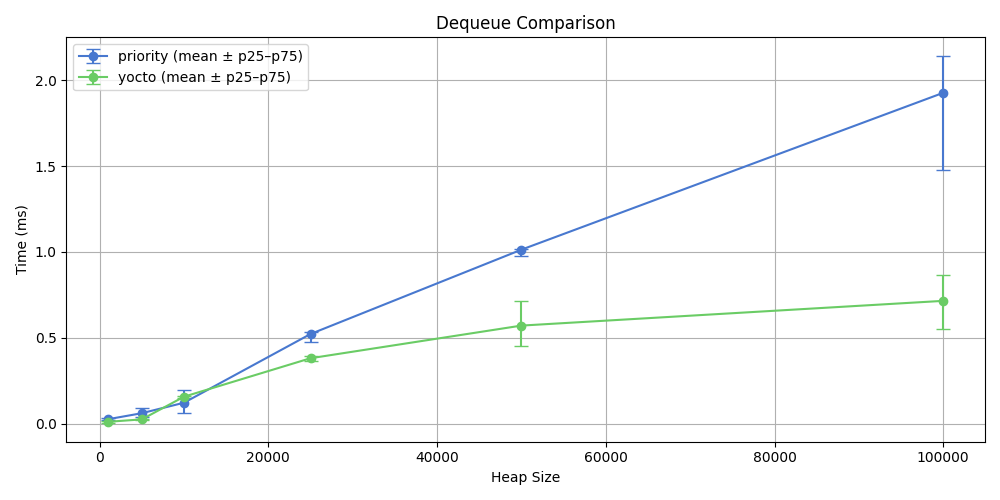
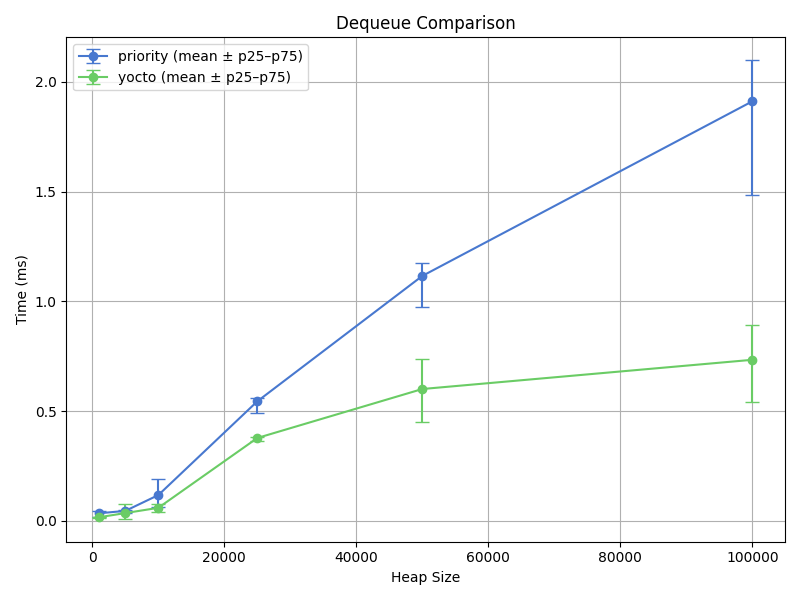
chore: update

diff --git a/benchmark/compare.ts b/benchmark/compare.ts
@@ -31,8 +31,11 @@ type AggregatedResult = {
 };
 
 function memoryInMB(): number {
-  if (global.gc) global.gc();
-  return Math.round((process.memoryUsage().heapUsed / 1024 / 1024) * 100) / 100;
+  for (let i = 0; i < 3; i++) {
+    if (global.gc) global.gc();
+  }
+  const mem = process.memoryUsage().heapUsed;
+  return Math.round((mem / 1024 / 1024) * 100) / 100;
 }
 
 function measureTime<T>(fn: () => T): { time: number; result: T } {

diff --git a/benchmark/plot_stats.py b/benchmark/plot_stats.py
@@ -8,7 +8,7 @@ df = pd.read_csv("stats.csv")
 operations = ["enqueue", "dequeue", "drain", "memory"]
 
 for op in operations:
-    fig, ax = plt.subplots(figsize=(10, 5))
+    fig, ax = plt.subplots(figsize=(8, 6))
     for queue_type in ["priority", "yocto"]:
         sub = df[(df["operation"] == op) & (df["queueType"] == queue_type)]
         if sub.empty:

diff --git a/README.md b/README.md
@@ -10,14 +10,43 @@ TypeScript による柔軟な優先度付きキュー実装。
 - ✅ **イテレータ・サイズ取得・全要素抽出 (`drain`) 対応**
 - ✅ **ジェネリクス対応（任意の型の要素を扱える）**
 
-## Benchmark
+## 📈 Benchmark Results
 
-@himenon/priority-queue (This library) vs [yocto-queue](https://github.com/sindresorhus/yocto-queue)
+The following charts compare this `PriorityQueue` implementation with [`yocto-queue`](https://github.com/sindresorhus/yocto-queue), using statistical aggregates over 10 trials. Error bars represent the 25th to 75th percentile range.
 
-|                                         Time                                          |                                          Memory                                           |
-| :-----------------------------------------------------------------------------------: | :---------------------------------------------------------------------------------------: |
-| ![Compare Time: yocto-queue vs @himenon/priority-queue](./benchmark/compare-time.png) | ![Compare Memory: yocto-queue vs @himenon/priority-queue](./benchmark/compare-memory.png) |
+---
 
+<div align="center">
+
+<table>
+  <tr>
+    <td><strong>Enqueue Time</strong></td>
+    <td><strong>Dequeue Time</strong></td>
+  </tr>
+  <tr>
+    <td><img src="benchmark/compare-enqueue.png" width="100%"></td>
+    <td><img src="benchmark/compare-dequeue.png" width="100%"></td>
+  </tr>
+  <tr>
+    <td><strong>Drain Time</strong></td>
+    <td><strong>Memory Usage</strong></td>
+  </tr>
+  <tr>
+    <td><img src="benchmark/compare-drain.png" width="100%"></td>
+    <td><img src="benchmark/compare-memory.png" width="100%"></td>
+  </tr>
+</table>
+
+</div>
+
+---
+
+### 📌 Notes
+
+- Benchmarks were executed **10 times per heap size**.
+- All plots include **mean values** with **p25–p75 error bars**.
+- Visualizations were generated via `matplotlib` in Docker.
+- Raw CSV data and scripts can be found under [`benchmark/`](./benchmark/).
 
 ## ⏱ Performance Considerations: `PriorityQueue` vs `yocto-queue`
 
